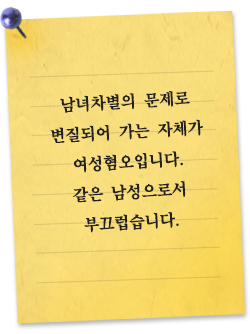
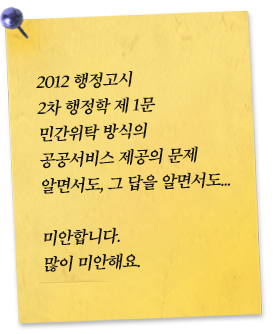
[구의역4주기포스트잇] * 포스트잇 그래픽 추가 * 사용자가 자기만의 포스트잇 만들기 기능 추가

diff --git a/css/style.css b/css/style.css
@@ -138,9 +138,9 @@ width: 27px; height: 30px;}
 .common-footer #footer-m { display:none;}
 
 .wrap { width:100%;  position: relative;  }
-.container {  width:100%; position: relative; min-height: 100vh;}
+.container {  width:100%; position: relative;  overflow: hidden;}
 
-.story-intro {  width:100%;  position: relative;min-height: 100vh;overflow-x: hidden;}
+.story-intro {  width:100%;  position: relative; }
 .story-intro-wrap {}
 .top-feature {  background: #111; }
 .top-feature .top-feature-full { width: 100%; position: relative; }
@@ -153,11 +153,21 @@ width: 27px; height: 30px;}
 
 .story-header {  position: relative; width:100%;}
 .back-post-holder {  position: absolute; top: 0; left: 0;  z-index: 1; width: 100%;}
-.back-post-holder .each-post {  position: absolute; max-width: 300px;  top: 0; left: 0; opacity:0; }
+.back-post-holder .each-post {  position: absolute;  }
 .back-post-holder .each-post img {width:100%; }
+.post--1 { top: 180px; left: 50%; margin-left: -620px; width: 250px;}
+.post--2 { top: 350px; left: 50%; margin-left: -700px; width: 320px;}
+.post--3 { top: 150px; left: 50%; margin-left: 400px;}
+.post--4 { top: 400px; left: 50%; margin-left: 350px; width:250px;}
+.post--4 { top: 350px;left: 50%; margin-left: 680px; width: 250px; transform: scale(2); z-index: 1; filter: blur(1px);}
+.post--5 { top: 500px;  left: 50%; margin-left: 400px;width: 250px;}
+.post--6 { top: -70px;left: 50%;  margin-left: -680px; }
+.post--7 {  top: 600px; left: 50%; margin-left: -640px;}
+.post--8 { top: -100px;left: 50%; margin-left: 480px; width: 250px; }
+.post--9 {  top: 750px; left: 50%; margin-left: 340px;}
+.post--10 { top: 900px; left: 50%; margin-left: -840px; width: 300px;}
 
 .intro-front {position: relative;  z-index: 2;}
-
 
 .page-title { margin: 50px auto; }
 .page-title h1 { display:none; text-indent: -99999px; }
@@ -182,7 +192,7 @@ width: 27px; height: 30px;}
 .story-intro-wrap .intro-des p.quo {font-weight: 400;color: #5d6a6f;font-size: 22px;  line-height: 1.6;font-style:italic; text-align: center; }
 .story-intro-wrap .intro-des p.quo .jump { display:block;  font-size: 18px;  margin-top: 10px;}
 
-.post-list-by-year { margin: 100px auto; width:100%;  }
+.post-list-by-year { margin: 150px auto; width:100%;  }
 .post-list-by-year h3 { text-align: center; margin: 20px auto; font-size: 20px; font-weight:bold; color: #3f4246;  } 
 .post-list-by-year ul { max-width: 1100px; position: relative; box-sizing: border-box; margin: 0 auto; }
 .post-list-by-year ul li { width: 25%;  box-sizing: border-box; padding: 0px 8px; float: left; margin: 0 auto; cursor:pointer;}
@@ -216,13 +226,18 @@ width: 27px; height: 30px;}
 .submit-btn-holder .submit-btn { }
 .submit-btn-holder:hover {box-shadow: 2px 2px 5px rgba(38, 44, 56, 0.3); }
 .search-bar-focus { box-shadow: 7px 7px 20px rgba(38, 44, 56, 0.5);  transform: translateY(5px);}
+.text-input .input-bar-block {  pointer-events: none;opacity: 0.4;}
 
-.user-made-post {position: relative;  width: 250px;  margin: 0 auto;}
+.alertMsg {text-align: center;font-size: 14px; margin-top: 10px; color: #ff5f57; font-weight: bold; display:none;}
+
+.user-made-post-scale { transform: scale(1.5); transform-origin: center;}
+.user-made-post {position: relative;  width: 250px;  margin: 0 auto; transition: 0.5s cubic-bezier(0.68, -0.55, 0.265, 1.55) 0s;}
 .user-made-post .post-back-img {position: relative; width: 250px; margin: 0 auto;}
 .user-made-post .post-back-img img {}
 .user-made-post .post-msg { position:absolute; width:100%; height:100%;top: 0;left: 0; }
-.user-made-post .post-msg p {  position: absolute; width: 100%;box-sizing: border-box; padding: 30px 35px;top: 0; left: 0;
- font-size: 16px; font-style: italic; color: #482100; word-break: keep-all;  text-align: center;}
+.user-made-post .post-msg p {  position: absolute; width: 100%;box-sizing: border-box; padding: 30px 35px; top: 50px; left: 0;
+ font-size: 16px; font-style: italic; color: #482100; word-break: keep-all;  text-align: center; opacity:0;}
+
 
 .refer {  max-width: 600px; margin: 0 auto;  margin: 30px auto;  box-sizing: border-box;
  padding: 20px;background: #f2f2f3;}
@@ -306,6 +321,18 @@ padding: 30px 0; text-align: center;  max-width: 500px; margin: 0 auto;}
 /***** 노트북 *****/
 @media screen and (max-width: 1380px) {
 
+.top-feature .station-holder {height:450px;}
+.top-feature .station-holder > div > img { width:100%; }
+.top-feature .station-holder .station-platform {width: 1000px;margin-left: -500px;}
+.top-feature .station-holder .station-door { width: 350px;  margin-left: -160px; bottom: 40px;}
+.top-feature .station-holder .flower { bottom: 5px; }
+.page-title-img > img {width:670px;}
+.story-intro-wrap .intro-des { font-size: 20px; max-width: 550px;}
+.post-list-by-year ul {max-width: 950px;}
+.art-holder .para-holder {font-size: 20px; max-width: 550px;}
+.art-holder .img-holder {  width: 500px; }
+.input_txt { font-size: 16px;}
+.text-input .input-bar { width: 650px; }
 
 }
 
@@ -354,7 +381,9 @@ padding: 30px 0; text-align: center;  max-width: 500px; margin: 0 auto;}
 .art_header .tit_view {   overflow: hidden;  margin-top: 4px;font-weight: normal;color: #121212; font-size: 24px; line-height: 29px;letter-spacing: -0.025em;}
 
 
-
+.back-post-holder {    position: relative; }
+.back-post-holder .each-post {position: relative; top: 0; left: 0; margin-left: 0;width: auto; transform: none; filter: none;}
+.back-post-holder .each-post img {display: block;margin: 0 auto; width: auto; max-width: 90%;}
 
 .top-feature .station-holder { height: 360px; }
 .top-feature .station-holder > div > img { width:100%; }
@@ -363,7 +392,7 @@ padding: 30px 0; text-align: center;  max-width: 500px; margin: 0 auto;}
 .top-feature .station-holder .flower {  bottom: -25px; margin-left: 40px;}
 .page-title-img {width:100%; box-sizing:border-box; padding: 0px 20px; }
 .page-title-img > img { width:100%; max-width: 280px;}
-.story-intro-wrap .intro-des { font-size: 18px;line-height: 1.6; padding: 0px 17px; margin: 40px auto;}
+.story-intro-wrap .intro-des { font-size: 18px;line-height: 1.6; padding: 0px 17px; margin: 40px auto; width:100%; box-sizing:border-box; }
 .story-intro-wrap .intro-des p {}
 
 .post-list-by-year{ margin: 50px auto;}
@@ -374,21 +403,23 @@ padding: 30px 0; text-align: center;  max-width: 500px; margin: 0 auto;}
 .post-list-by-year ul li .each-year .list-item-text p {   font-size: 14.5px; font-weight: bold; text-shadow: 1px 1px 0px rgba(255,255,255,0.5);}
 .art-holder .para-holder {font-size: 18px;line-height: 1.6; padding: 0px 17px; margin: 40px auto;}
 .art-holder .para-holder .para {}
-.art-holder .img-holder {}
+.art-holder .img-holder {width: 100%;}
 .art-holder .img-holder img { box-sizing: border-box; width: 100%; box-shadow:none;}
 .art-holder .img-holder .caption { text-align: left;width: 100%;box-sizing: border-box; padding: 0px 10px;font-size: 13px;}
 
 .user-post-area { margin: 50px auto; }
 .text-input { width: 100%;  box-sizing: border-box; padding: 0px 15px;}
-.text-input .des{ text-align: left; word-break: keep-all;}
+.text-input .des{ word-break: keep-all;}
 .text-input .input-bar { width:100%; }
 .submit-btn-holder { right: 0px; width: auto; height: 100%; padding: 0px 10px; line-height: 50px;}
 .input_txt { width:100%; font-size: 15px;}
+.alertMsg {font-size:13px;}
+
 .refer { width: 95%; }
 .bottom-byline { margin-top:0; }
 .bottom-byline ul .team-wrap { width: 100%;}
 
-
+span.jump { display:block;}
 
 }
 

diff --git a/index.html b/index.html
@@ -261,10 +261,13 @@
 									<div class="each-post post--1"><img src="img/post1.png" alt=""></div>
 									<div class="each-post post--2"><img src="img/post2.png" alt=""></div>
 									<div class="each-post post--3"><img src="img/post3.png" alt=""></div>
-									<div class="each-post post--4"><img src="img/post4.png" alt=""></div>
-									<div class="each-post post--5"><img src="img/post5.png" alt=""></div>
-									<div class="each-post post--6"><img src="img/post6.png" alt=""></div>
-									<div class="each-post post--7"><img src="img/post7.png" alt=""></div>
+									<div class="each-post post--4"><img src="img/post5.png" alt=""></div>
+									<div class="each-post post--5"><img src="img/post6.png" alt=""></div>
+									<div class="each-post post--6"><img src="img/post7.png" alt=""></div>
+									<div class="each-post post--7"><img src="img/post10.png" alt=""></div>
+									<div class="each-post post--8"><img src="img/post8.png" alt=""></div>
+									<div class="each-post post--9"><img src="img/post11.png" alt=""></div>
+									<div class="each-post post--10"><img src="img/post13.png" alt=""></div>
 								</div>
 
 								<div class="intro-front">
@@ -361,13 +364,14 @@
 								
 								<div class="user-post-area">
 									<div class="text-input">
-										<p class="des">구의역 4주기를 맞아 추모의 메시지를 남기신다면, 어떤 한마디를 남기고 싶으신가요?</p>
+										<p class="des">구의역 4주기를 맞아 추모의 메시지를 남기신다면,<span class="jump">어떤 한마디를 남기고 싶으신가요? (최대 40자)</span></p>
 										<div class="input-bar">
 											<input type="text" id="USER_POST" placeholder="추모의 메시지를 남겨주세요" class="input_txt" />
-											<div class="submit-btn-holder">
+											<div class="submit-btn-holder" id="USER_POST_CONFIRM">
 												<p class="submit-btn">확인</p>
 											</div>
 										</div>
+										<div class="alertMsg">최대 40자로 남겨주세요.</div>
 									</div>
 									<div class="user-made-post">
 										<div class="post-back-img">
@@ -406,7 +410,7 @@
 						<ul class="wrap-psrelative">
 							<div class="team-wrap">
 								<li class="team">사회부 사건팀</li>
-								<li>탁지영 기자 hajuk932@khan.kr</li>
+								<li>탁지영 기자 g0g0@khan.kr</li>
 							</div>
 							<div class="team-wrap">
 								<li class="team">뉴콘텐츠팀</li>

diff --git a/js/custom.js b/js/custom.js
@@ -20,9 +20,39 @@ $(function(){
 	})
 
 
+	var userPutMsg = "";
+	function setPostDefault(){
+		$(".user-made-post").hide();
+		$(".user-made-post").addClass("user-made-post-scale");	
+	}
+	setPostDefault();
+
+	function makePost(msg){
+		if(msg.length >= 40){
+			$(".alertMsg").fadeIn();
+		}else{
+			$(".alertMsg").hide();
+			$(".text-input .input-bar").addClass("input-bar-block");
+			$(".user-made-post .post-msg p").html(userPutMsg);
+			$(".user-made-post").fadeIn();
+			$(".user-made-post").removeClass("user-made-post-scale");
+			var topMoveVal = ($(".user-made-post").height()-$(".user-made-post .post-msg p").outerHeight())/2;
+			$(".user-made-post .post-msg p").css({"top":topMoveVal+"px"});
+			$(".user-made-post .post-msg p").animate({"opacity":"1"},500);  
+	}
+	
+	};
+	$("#USER_POST_CONFIRM").on("click", function(e){
+		e.preventDefault();
+		userPutMsg = $("#USER_POST").val();
+		makePost(userPutMsg);
+	});
+
+
 	/******** 모바일 전용 조정 ********/
 	if(isMobile==true){
 		$(".page-title-img").find("img").attr("src", "img/page-title-img-m.png");
+		$(".back-post-holder").insertAfter(".intro-front");
 	
 	}
 	/******** 모바일 전용 조정 ********/
@@ -31,8 +61,6 @@ $(function(){
 		for(o=0; o<$introItem.length;o++){
 			$introItem.eq(o).delay(o*500).animate({"opacity":"1", "filter":"none","-webkit-filter":"none"}, 1500);
 		};
-			
-	
 	}
 
 	$(".loading-page").fadeOut(200, function(){
